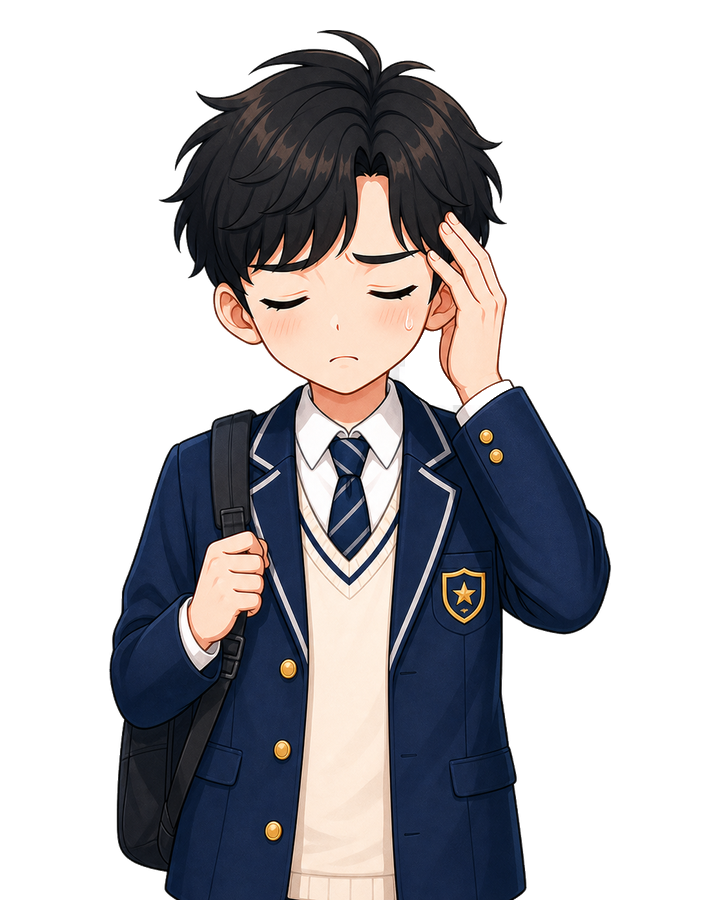
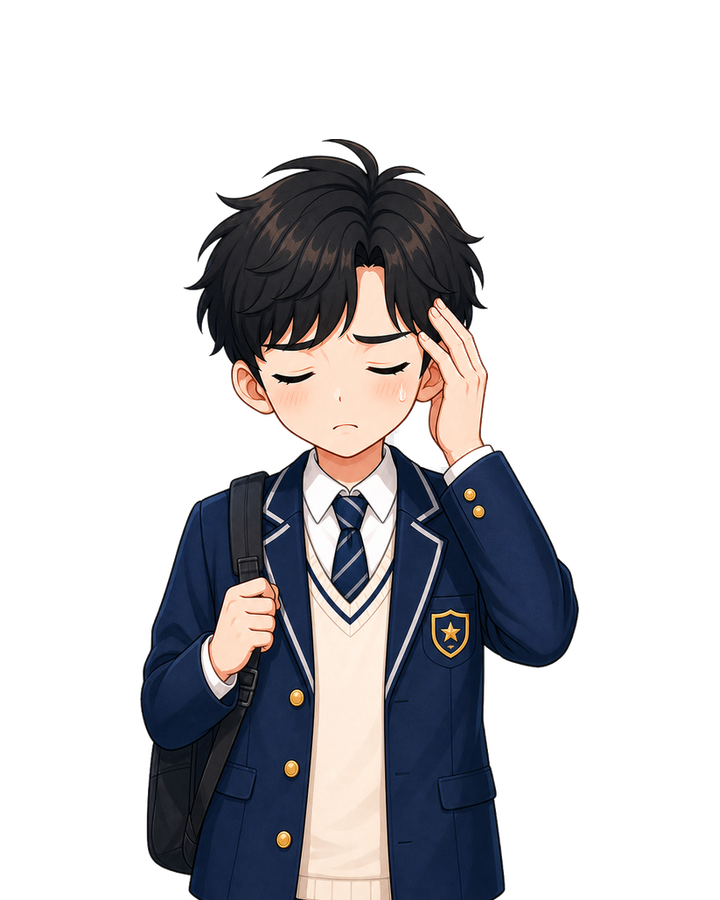
Fix scenario transitions and character images

Changed region(s): [[0.1528, 0.0311, 0.8556, 1.0]]

diff --git a/index.html b/index.html
@@ -688,12 +688,6 @@ body{background:
 #screen-student .scene-char[class*="slot-char-female"] img{
   height:272px;
 }
-#screen-student .scene-char.slot-char-male-headache{
-  padding-top:34px;
-}
-#screen-student .scene-char.slot-char-male-headache img{
-  height:238px;
-}
 #screen-student .scene-char.slot-npc-minjun img,
 #screen-student .scene-char.slot-npc-seoyeon img,
 #screen-student .scene-char.slot-npc-haeun img{
@@ -2040,8 +2034,6 @@ body{background:
   #screen-student .hud-main{min-height:38px;}
   #screen-student .scene-area{height:238px;min-height:238px;}
   #screen-student .scene-char img{height:286px;transform:translateY(2px);}
-  #screen-student .scene-char.slot-char-male-headache{padding-top:38px;}
-  #screen-student .scene-char.slot-char-male-headache img{height:250px;}
   #screen-student .scene-char.slot-npc-minjun img,
   #screen-student .scene-char.slot-npc-seoyeon img,
   #screen-student .scene-char.slot-npc-haeun img{height:480px;transform:translateY(0);}
@@ -3799,6 +3791,7 @@ function buildFourteenDayScenarios(){
                     "title": "짧은 회복",
                     "text": "[선택 결과] 무거운 눈꺼풀이 한결 가벼워진다. 정신이 맑아졌다."
                 },
+                "characterMood": "recovered",
                 "nextLocation": "🏪 D-7 방과후"
             },
             {
@@ -3865,6 +3858,17 @@ function buildFourteenDayScenarios(){
         "choices": null
     },
     {
+        "type": "narration",
+        "day": 5,
+        "countdown": "D-5 시험기간",
+        "location": "📘 D-5 에피소드 시작",
+        "scene": "scene_diary_home",
+        "speaker": "나레이터",
+        "hideCharacter": true,
+        "text": "며칠이 지나 시험까지 D-5. 오늘은 약을 먹기 전, 복용 조건을 확인하는 선택을 하게 됩니다.",
+        "choices": null
+    },
+    {
         "type": "event",
         "day": 5,
         "countdown": "D-5 시험기간",
@@ -3912,7 +3916,7 @@ function buildFourteenDayScenarios(){
                 },
                 "result": {
                     "title": "참기",
-                    "text": "[선택 결과] 약은 먹지 않았지만 두통 때문에 오전 집중이 크게 흔들린다."
+                    "text": "[선택 결과] 약은 먹지 않았지만 두통 때문에 오전 집중하기 어렵다."
                 },
                 "nextLocation": "🏫 D-5 일과 중"
             }
@@ -3936,7 +3940,7 @@ function buildFourteenDayScenarios(){
                 },
                 "result": {
                     "title": "식후 복용",
-                    "text": "[선택 결과] 빈속을 피하고 약을 먹었다. 바쁜 아침이지만 설명서 확인이 선택을 바꿨다."
+                    "text": "[선택 결과] 바쁜 아침이었지만 설명서를 확인한 덕분에 빈속을 피하고 안전하게 약을 복용해 부작용을 줄였다."
                 },
                 "nextLocation": "🏫 D-5 일과 중"
             },
@@ -3950,7 +3954,7 @@ function buildFourteenDayScenarios(){
                 },
                 "result": {
                     "title": "기다리는 선택",
-                    "text": "[선택 결과] 지금 집중은 조금 손해 보지만 공복 복용은 피했다."
+                    "text": "[선택 결과] 당장 집중력은 조금 떨어졌지만, 공복을 피해 약을 복용함으로써 부작용을 안전하게 예방했다."
                 },
                 "nextLocation": "🏫 D-5 일과 중"
             }
@@ -4096,6 +4100,17 @@ function buildFourteenDayScenarios(){
         "speaker": "나레이터",
         "hideCharacter": true,
         "text": "오늘 약을 먹기 전에 설명서를 먼저 확인했나요? 복용 조건을 모르고 먹은 약은, 약의 효과보다 부작용이 더 클 수 있어요.",
+        "choices": null
+    },
+    {
+        "type": "narration",
+        "day": 3,
+        "countdown": "D-3 시험기간",
+        "location": "📘 D-3 에피소드 시작",
+        "scene": "scene_diary_home",
+        "speaker": "나레이터",
+        "hideCharacter": true,
+        "text": "시험까지 D-3. 이번에는 가족이 약을 찾는 상황에서, 성분과 주의사항을 확인해야 합니다.",
         "choices": null
     },
     {
@@ -4396,6 +4411,17 @@ function buildFourteenDayScenarios(){
         "choices": null
     },
     {
+        "type": "narration",
+        "day": 3,
+        "countdown": "D-3 시험기간",
+        "location": "🌙 D-Day 전날 밤",
+        "scene": "scene_diary_home",
+        "speaker": "나레이터",
+        "hideCharacter": true,
+        "text": "D-3 에피소드는 여기서 마무리됩니다. 이제 시험 전날 밤, 마지막 컨디션 선택으로 넘어갑니다.",
+        "choices": null
+    },
+    {
         "type": "event",
         "day": 3,
         "countdown": "D-3 시험기간",
@@ -4419,7 +4445,7 @@ function buildFourteenDayScenarios(){
                 "caffeineMg": 81,
                 "sleepHour": 26,
                 "sleepHours": 5,
-                "nextLocation": "📝 D-Day 시험 당일"
+                "nextLocation": "📘 D-Day 에피소드 시작"
             },
             {
                 "text": "🛌 지금 자고 새벽에 일찍 일어나 본다.",
@@ -4434,7 +4460,7 @@ function buildFourteenDayScenarios(){
                 },
                 "sleepHour": 24,
                 "sleepHours": 7,
-                "nextLocation": "📝 D-Day 시험 당일"
+                "nextLocation": "📘 D-Day 에피소드 시작"
             },
             {
                 "text": "⏱ 30분만 더 하고 잔다.",
@@ -4450,9 +4476,20 @@ function buildFourteenDayScenarios(){
                 },
                 "sleepHour": 25,
                 "sleepHours": 6,
-                "nextLocation": "📝 D-Day 시험 당일"
+                "nextLocation": "📘 D-Day 에피소드 시작"
             }
         ]
+    },
+    {
+        "type": "narration",
+        "day": 15,
+        "countdown": "D-Day 시험 당일",
+        "location": "📘 D-Day 에피소드 시작",
+        "scene": "scene_diary_home",
+        "speaker": "나레이터",
+        "hideCharacter": true,
+        "text": "드디어 D-Day. 지금까지의 수면, 카페인, 복약 선택이 시험 당일 컨디션으로 이어집니다.",
+        "choices": null
     },
     {
         "type": "event",
@@ -4685,9 +4722,16 @@ function applyPendingDrinkChoice(choice){
 }
 
 function choiceCharacterSlot(choice){
-  if(!choice?.characterMood) return '';
+  const mood = choice?.characterMood || (choice?.noCaffeine || choice?.caffeineMg === 0 ? 'recovered' : '');
+  if(!mood) return '';
   const prefix = G.gender === 'f' ? 'char_female' : 'char_male';
-  return `${prefix}_${choice.characterMood}`;
+  return `${prefix}_${mood}`;
+}
+
+function drinkCharacterSlot(drink){
+  if(Number(drink?.caffeine || 0) !== 0) return '';
+  const prefix = G.gender === 'f' ? 'char_female' : 'char_male';
+  return `${prefix}_recovered`;
 }
 
 function formatDrinkResultText(drink, reactionText){
@@ -6719,6 +6763,8 @@ function selectDrink(type, drinkId) {
 
   window._pendingDrinkChoice = null;
   const reactionText = applyPendingDrinkChoice(pending);
+  const resultSlot = drinkCharacterSlot(drink) || choiceCharacterSlot(pending);
+  if(resultSlot) setSceneCharacterSlot(resultSlot, `${G.name}(나)`);
   updateCaffeineHud();
 
   showDialogResult(
